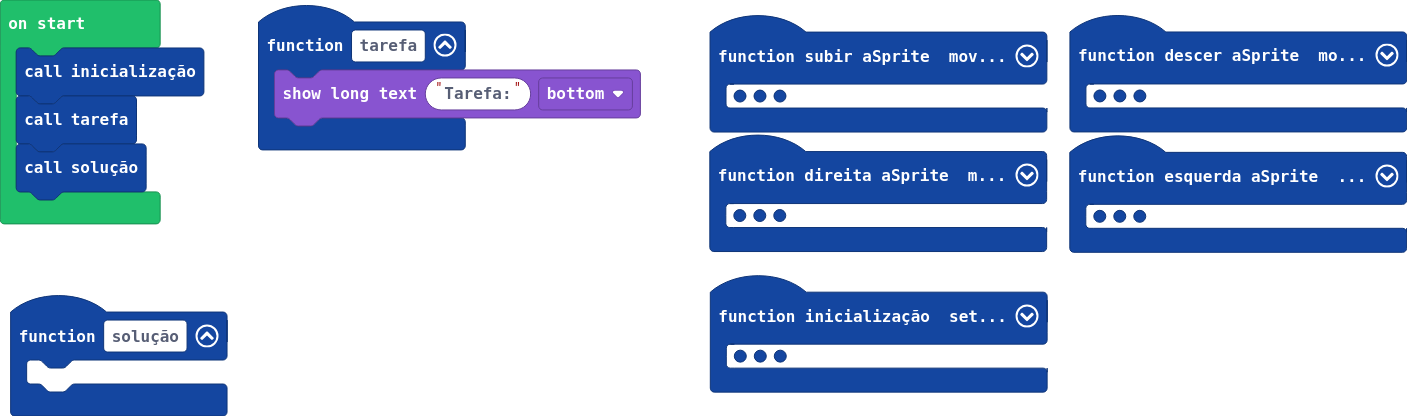
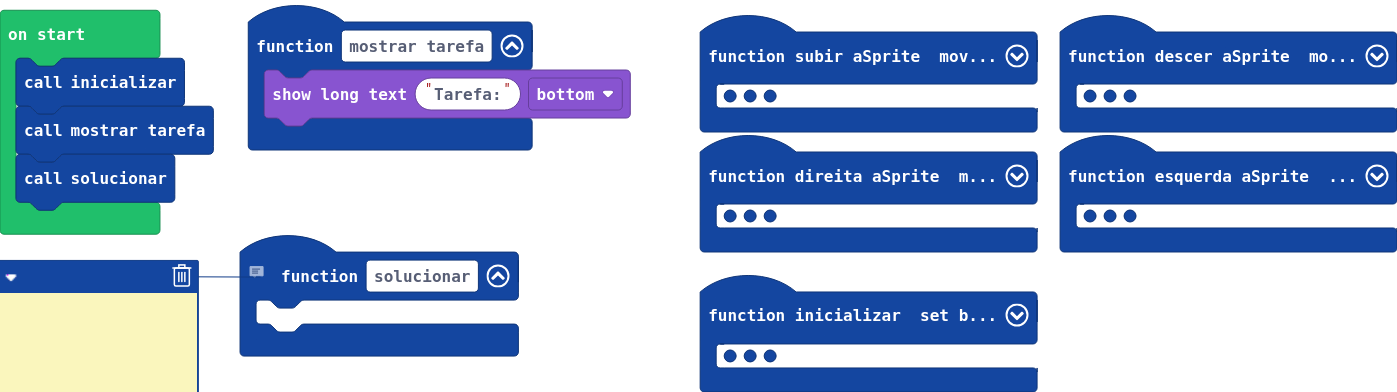
corrigido esq/dir e verbos

diff --git a/main.ts b/main.ts
@@ -1,22 +1,15 @@
-function solução () {
+function solucionar () {
 	
 }
-function tarefa () {
-    game.showLongText("Tarefa:", DialogLayout.Bottom)
-}
 function esquerda (aSprite: Sprite) {
-    grid.move(aSprite, 1, 0)
+    grid.move(aSprite, -1, 0)
     pause(200)
 }
 function subir (aSprite: Sprite) {
     grid.move(aSprite, 0, -1)
     pause(200)
 }
-function direita (aSprite: Sprite) {
-    grid.move(aSprite, -1, 0)
-    pause(200)
-}
-function inicialização () {
+function inicializar () {
     scene.setBackgroundImage(assets.image`tabuleiro`)
     tiles.setCurrentTilemap(tilemap`tabuleiro_tiles`)
     personagem = sprites.create(img`
@@ -40,11 +33,18 @@ function inicialização () {
     personagem.setStayInScreen(true)
     grid.place(personagem, tiles.getTileLocation(0, 0))
 }
+function mostrar_tarefa () {
+    game.showLongText("Tarefa:", DialogLayout.Bottom)
+}
+function direita (aSprite: Sprite) {
+    grid.move(aSprite, 1, 0)
+    pause(200)
+}
 function descer (aSprite: Sprite) {
     grid.move(aSprite, 0, 1)
     pause(200)
 }
 let personagem: Sprite = null
-inicialização()
-tarefa()
-solução()
+inicializar()
+mostrar_tarefa()
+solucionar()
